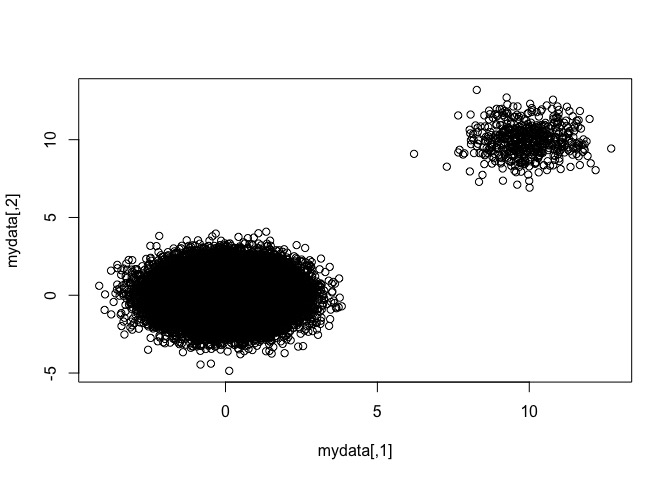
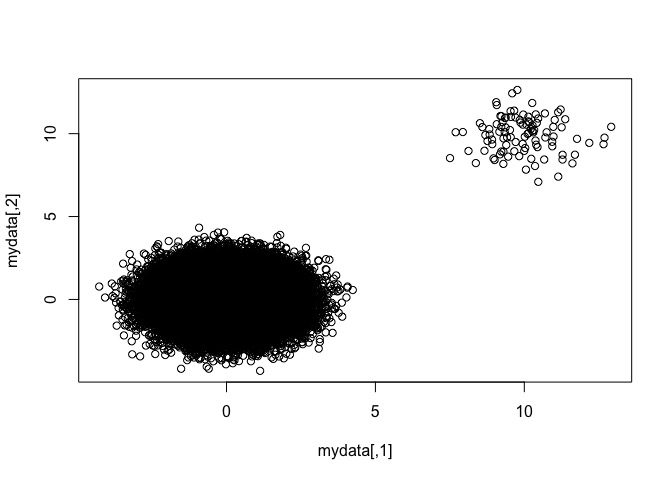
new readme

diff --git a/README.md b/README.md
@@ -37,8 +37,8 @@ devtools::install_github(repo = "borishejblum/NPflow", ref = "weightedobs")
 library(ggplot2)
 library(bigdpclust)
 
-n1 <- 50000
-n2 <- 500
+n1 <- 100000
+n2 <- 100
 mydata <- rbind(cbind(rnorm(n1), rnorm(n = n1)),
                 cbind(rnorm(n2, m=10), rnorm(n = n2, m=10)))
 plot(mydata)
@@ -48,21 +48,16 @@ plot(mydata)
 
 ``` r
 
-res <- bigdpclust(mydata, nclumps=200, 
-                  Nmcmc = 2000, plotevery = 2000, burnin = 1000)
-```
-
-<img src="man/figures/README-unnamed-chunk-3-2.jpeg" width="100%" />
-
-``` r
+res <- bigdpclust(mydata, nclumps=100, 
+                  Nmcmc = 1000, plotevery = 2000, burnin = 500)
 table(res$cluster[1:n1])
 #> 
-#>     2 
-#> 50000
+#>      2 
+#> 100000
 table(res$cluster[n1 + 1:n2])
 #> 
 #>   1 
-#> 500
+#> 100
 ```
 
 – Boris Hejblum & Paul Kirk
